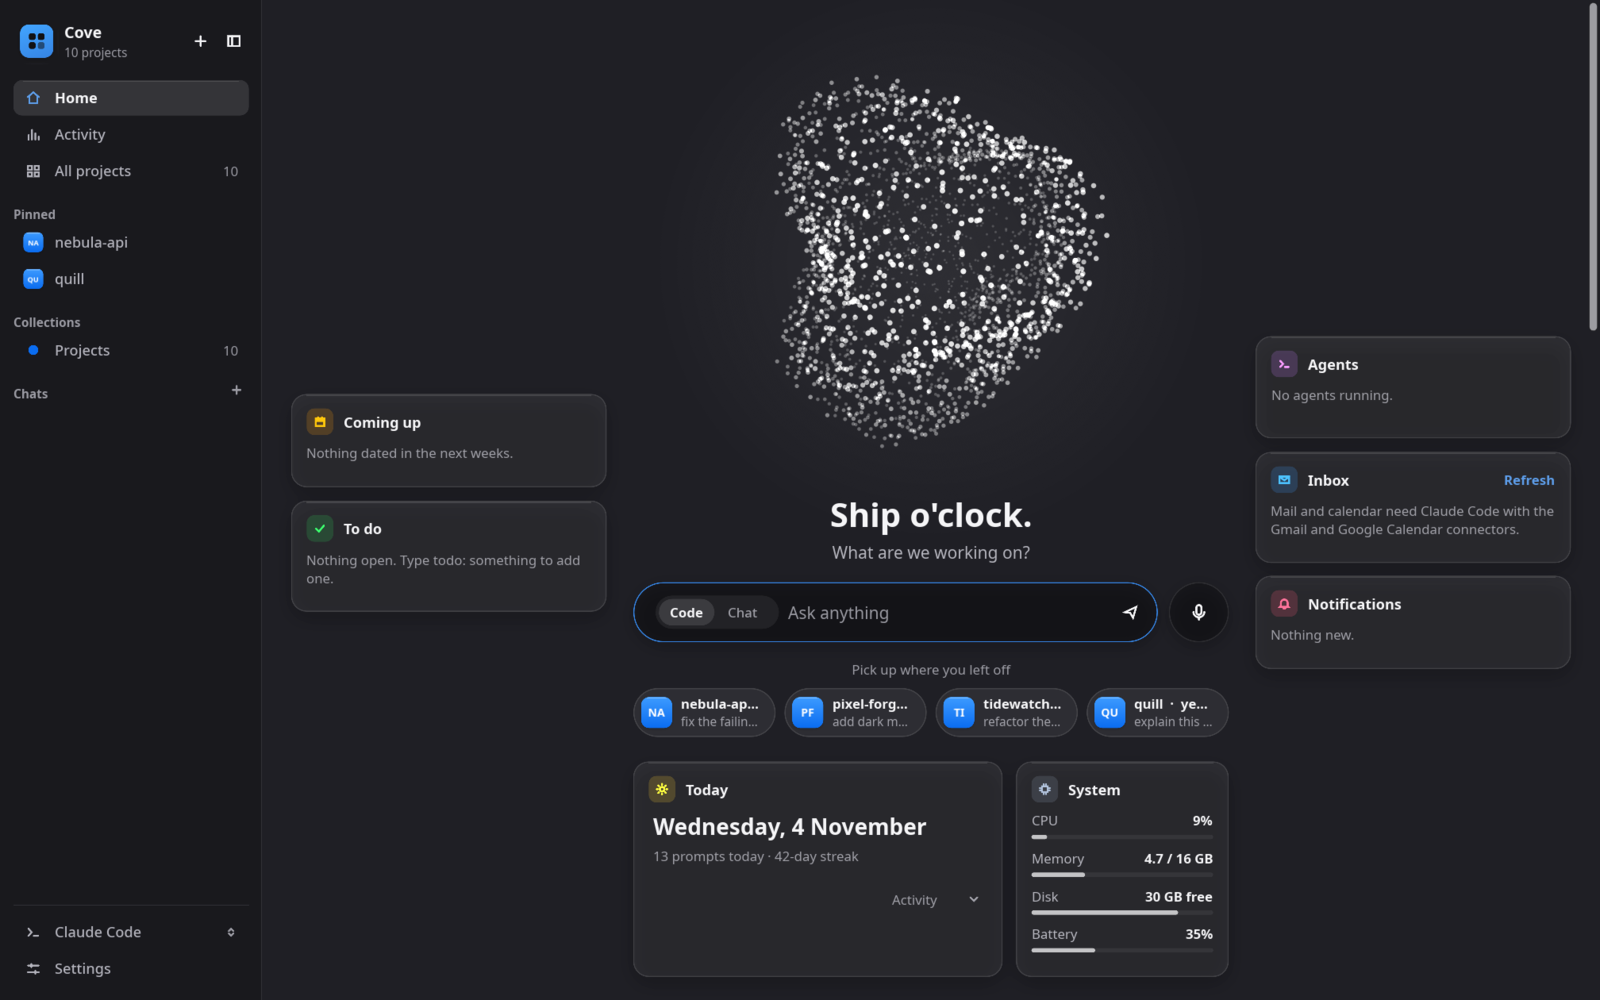
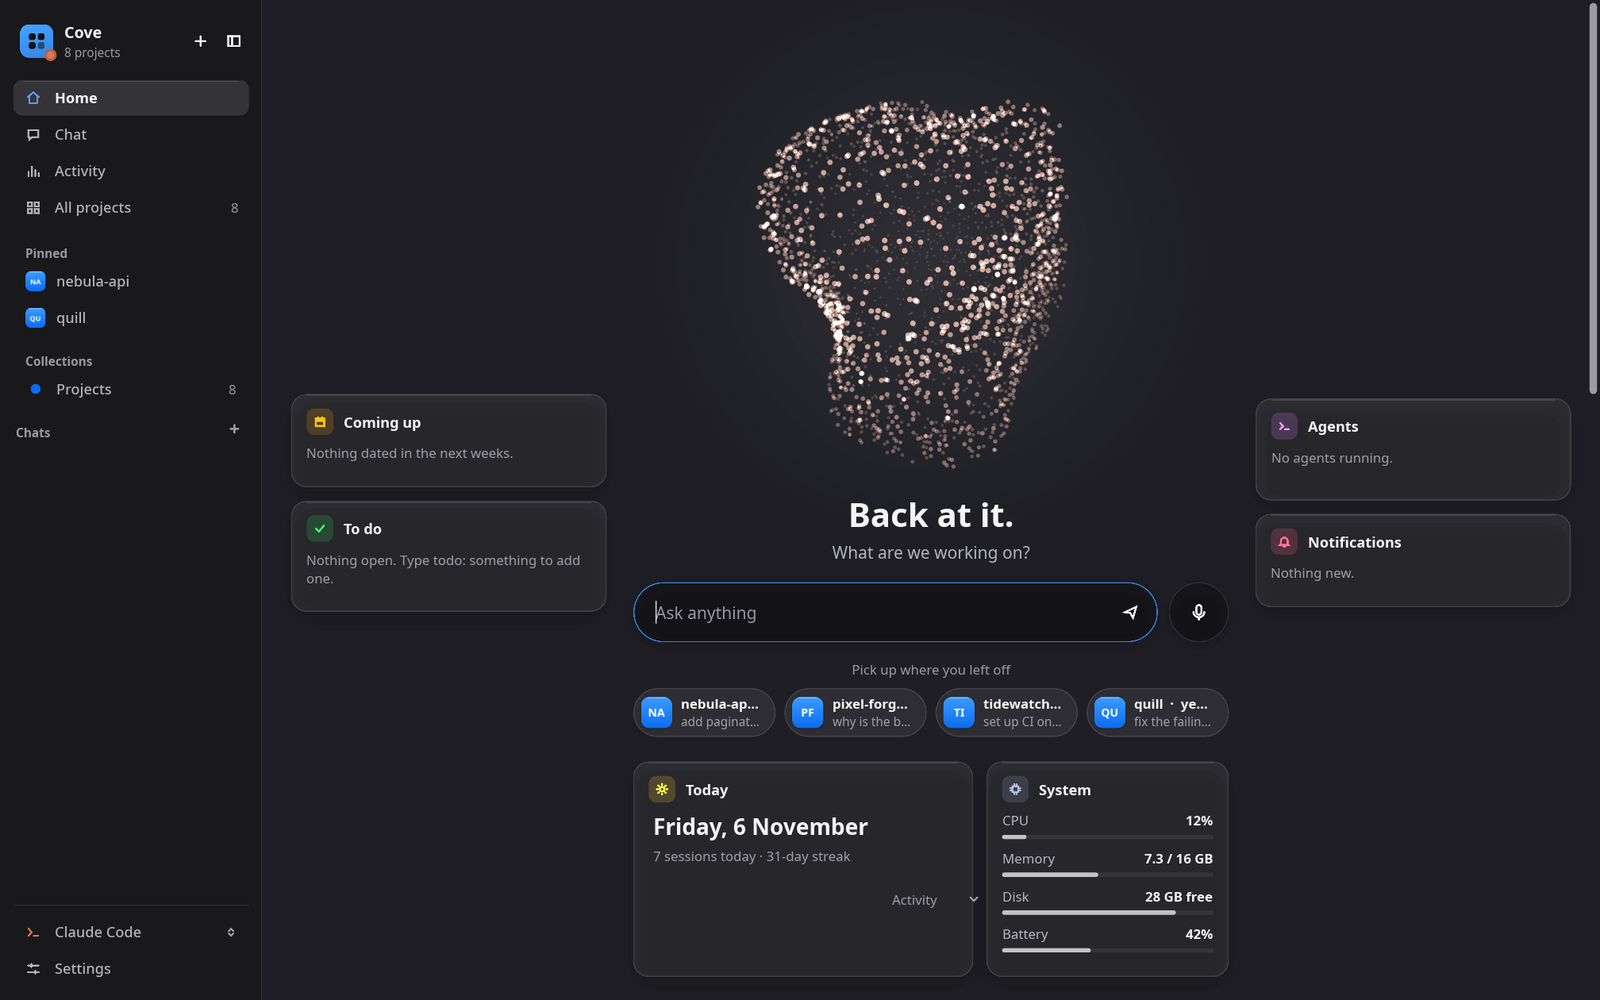
README: Chat page, chat agent, zoom, shortcuts, voice built in (models only), Windows talk mode, desktop apps FAQ; new screenshot

diff --git a/README.md b/README.md
@@ -162,7 +162,7 @@ Cove needs only one thing besides itself: a coding agent. Everything else is an 
 | **Code editor** | The *VS Code* button opens projects in your editor | ✓ | ✓ | [Editor](#code-editor) |
 | **Handy** | Dictation: speak, and the words appear in Cove's box | ✓ | ✓ | [Voice input](#voice-input-handy) |
 | **A voice** | Cove reads its chat replies aloud | ✓ (Kokoro, Piper or espeak-ng) | ✓ built in | [Spoken replies](#spoken-replies) |
-| **Talk mode models** | A hands-free conversation: words show as you speak, and every pause sends | ✓ | — | [Talk mode](#talk-mode-live-speech-to-text) |
+| **Talk mode models** | A hands-free conversation: words show as you speak, and every pause sends | ✓ | ✓ (new) | [Talk mode](#talk-mode-live-speech-to-text) |
 | **Keyboard shortcut** | One key that brings Cove up and starts listening | ✓ | ✓ set up by the installer | [Shortcuts](#keyboard-shortcuts) |
 | **More agents** | Gemini CLI, Copilot CLI, Cursor CLI, Qwen Code, Aider, Goose | ✓ | ✓ | [Agents](#coding-agents) |
 | **Ollama** | Run your agent on a local model, offline and free | ✓ | ✓ | [Local models](#local-models-ollama) |
@@ -235,26 +235,25 @@ To send dictated text without pressing Enter, switch on **Settings → Voice and
 
 ### Spoken replies
 
-In **Chat** mode, Cove can read its replies aloud. Turn this on with **Settings → Voice and chat → Talk back**, and choose a voice there.
+Cove can read its chat replies aloud. Turn this on with **Settings → Voice and chat → Talk back**, and choose a voice there. Every reply also has a **Read aloud** button above it.
 
 - **Windows:** this works out of the box with the built-in Windows voice.
 - **Linux:** Cove uses the best voice it finds, in this order.
 
 | Voice | Sound | How to install (Linux) |
 | --- | --- | --- |
-| **Kokoro** | Natural, 28 voices | Run the commands below. About 360 MB to download. |
+| **Kokoro** | Natural, 28 voices | Run the command below. About 330 MB to download. |
 | **Piper** | Good | Install `piper-tts` (`pipx install piper-tts`, or `piper-tts-bin` from the AUR). Put one voice (`.onnx` plus `.onnx.json`) from [piper-voices](https://huggingface.co/rhasspy/piper-voices/tree/main/en) into `~/.local/share/piper/`. |
 | **espeak-ng** | Robotic, tiny | `sudo apt install espeak-ng`, `sudo dnf install espeak-ng` or `sudo pacman -S espeak-ng` |
 
-To install Kokoro, run:
+To install Kokoro, download the voice model. Cove has the engine built in:
 
 ```sh
 mkdir -p ~/.local/share/kokoro && cd ~/.local/share/kokoro
-curl -fL https://github.com/k2-fsa/sherpa-onnx/releases/download/v2.0.1/sherpa-onnx-v2.0.1-linux-x64-shared.tar.bz2 | tar xj
 curl -fL https://github.com/k2-fsa/sherpa-onnx/releases/download/tts-models/kokoro-multi-lang-v1_0.tar.bz2 | tar xj
 ```
 
-Then go to **Settings → Voice and chat** and click **Test voice**.
+Then go to **Settings → Voice and chat** and click **Test voice**. Cove loads the voice only when it is about to speak, and lets it go after five quiet minutes. While it gets ready, three dots move on the microphone button.
 
 Playback uses `pw-play`, `paplay` or `aplay`, and every desktop has at least one of them.
 
@@ -265,20 +264,31 @@ Talk mode is a spoken conversation, and it needs no extra app:
 - Each pause sends what you said.
 - Cove reads the reply aloud, then keeps listening until you stop it.
 
-It runs on your computer with [sherpa-onnx](https://github.com/k2-fsa/sherpa-onnx), the Parakeet speech model and the Silero voice detector. Nothing is recorded or uploaded. **Linux only for now.**
+It runs inside Cove with [sherpa-onnx](https://github.com/k2-fsa/sherpa-onnx), the Parakeet speech model and the Silero voice detector. Nothing is recorded or uploaded, and the microphone is open only while you talk.
 
-1. Install **Kokoro** first (see [Spoken replies](#spoken-replies)), because talk mode uses the same sherpa-onnx tools.
-2. Download the listening models, about 465 MB:
+1. Download the listening models, about 465 MB:
 
-```sh
-mkdir -p ~/.local/share/asr && cd ~/.local/share/asr
-curl -fL https://github.com/k2-fsa/sherpa-onnx/releases/download/asr-models/sherpa-onnx-nemo-parakeet-tdt-0.6b-v3-int8.tar.bz2 | tar xj
-curl -fLO https://github.com/k2-fsa/sherpa-onnx/releases/download/asr-models/silero_vad.onnx
-```
+   **Linux**
 
-3. Restart Cove. The microphone now starts talk mode instead of Handy. It takes a few seconds to get ready each time.
+   ```sh
+   mkdir -p ~/.local/share/asr && cd ~/.local/share/asr
+   curl -fL https://github.com/k2-fsa/sherpa-onnx/releases/download/asr-models/sherpa-onnx-nemo-parakeet-tdt-0.6b-v3-int8.tar.bz2 | tar xj
+   curl -fLO https://github.com/k2-fsa/sherpa-onnx/releases/download/asr-models/silero_vad.onnx
+   ```
 
-To check that Cove hears your microphone, run `cove --mic-test` in a terminal and speak. The numbers rise while you talk.
+   **Windows** (PowerShell, Windows 10 and 11 include `tar`)
+
+   ```powershell
+   $d = "$env:APPDATA\asr"; New-Item -ItemType Directory -Force $d | Out-Null; cd $d
+   curl.exe -fL -o m.tar.bz2 https://github.com/k2-fsa/sherpa-onnx/releases/download/asr-models/sherpa-onnx-nemo-parakeet-tdt-0.6b-v3-int8.tar.bz2; tar xf m.tar.bz2; del m.tar.bz2
+   curl.exe -fLO https://github.com/k2-fsa/sherpa-onnx/releases/download/asr-models/silero_vad.onnx
+   ```
+
+2. Restart Cove. The microphone now starts talk mode instead of Handy.
+
+Cove loads the speech model in the background when it starts, so it is ready when you are. If you don't talk for a few minutes, Cove lets it go to free about 1 GB of memory, and loads it again the next time you press the microphone. While it loads, the box glows softly and three dots move on the microphone button. When it turns red, speak.
+
+To check talk mode from a terminal, run `cove --talk-test` and say something: it prints what it hears for 20 seconds. `cove --mic-test` shows only the microphone level.
 
 ### Keyboard shortcuts
 
@@ -287,9 +297,12 @@ Inside Cove:
 | Key | Action |
 | --- | --- |
 | <kbd>Ctrl</kbd>+<kbd>K</kbd> or <kbd>/</kbd> | Search or ask |
+| <kbd>Ctrl</kbd>+<kbd>1</kbd> … <kbd>4</kbd> | Home, Chat, Activity, Projects |
+| <kbd>Ctrl</kbd>+<kbd>,</kbd> | Settings |
+| <kbd>Ctrl</kbd>+<kbd>=</kbd> / <kbd>-</kbd> / <kbd>0</kbd>, or <kbd>Ctrl</kbd>+wheel | Zoom in, out, back to 100 % |
 | <kbd>Enter</kbd> | Send, or open the selected project |
 | <kbd>↑</kbd> / <kbd>↓</kbd> | Pick a suggestion |
-| <kbd>Ctrl</kbd>+<kbd>B</kbd> | Show or hide the sidebar |
+| <kbd>Ctrl</kbd>+<kbd>B</kbd> | Show or hide the sidebar (drag its edge to resize it) |
 | <kbd>Esc</kbd> | Clear, close, go back |
 
 **A global shortcut (Linux).** Bind any key to `cove --listen`:
@@ -354,11 +367,12 @@ On the **niri**, **Hyprland** and **sway** compositors, clicking a running agent
 - **Your agent, your data.** Switch between Claude Code, Codex, opencode, Gemini CLI, Copilot CLI, Cursor CLI, Qwen Code, Aider and Goose at the bottom of the sidebar. Each has its own colour, and local models through Ollama work too. Session counts, recent sessions, Activity, running agents and Chat all follow the agent you pick.
 - **Live agents.** See which agents are running right now, in which project, and whether they are working or waiting for you.
 - **Ask in plain words.** Type requests such as *"continue nebula-api"*, *"run quill"* or *"new project called atlas"*. Cove opens the right place, with your request already typed.
-- **Chat.** Talk to Claude Code without picking a project first. When an idea grows, turn the chat into a project with one click.
+- **Code and Chat.** The box on Home is for your projects: open or continue one, ask how one is going, or start a new one. **Chat** (<kbd>Ctrl</kbd>+<kbd>2</kbd>) is for longer conversations that aren't about a project, like a chatbot. Replies appear as they are written, with the agent, model and time above each one.
+- **Chat with any agent.** Pick the chat agent in Settings or with the button above the chat. When an agent hits its limit, hand the conversation to another one and carry on. **Open in terminal** continues a chat as a full agent session, and **Make it a project** turns it into a project.
 - **Activity.** A heatmap, a punch card and charts of your prompts and tokens over time, plus your busiest projects.
 - **Quick jumps.** Open any project in your editor, terminal, file manager or on GitHub, or copy its path.
 - **Native and light.** One binary written in Rust, with no runtime to install. It opens in under a second and stays quiet in the background.
-- **Fits your desktop.** It follows the system light or dark theme and accent colour, and works from the keyboard: <kbd>Ctrl</kbd>+<kbd>K</kbd> to search, <kbd>Ctrl</kbd>+<kbd>B</kbd> for the sidebar, <kbd>Esc</kbd> to go back.
+- **Fits your desktop.** It follows the system light or dark theme and accent colour, zooms like a browser, and works from the keyboard (see [Keyboard shortcuts](#keyboard-shortcuts)).
 
 ## Updates
 
@@ -433,6 +447,15 @@ Cove lists the folders directly inside each project folder. Check **Settings →
 </details>
 
 <details>
+<summary><b>Does it work with the Claude, Codex or opencode desktop apps?</b></summary>
+
+<br>
+
+Partly. Cove reads each agent's history from where the agent keeps it: `~/.claude/projects`, `~/.codex` and opencode's `opencode.db`. Sessions stored there appear in Cove, so a desktop app that keeps its history in the same place shows up too. But Cove's buttons open the command-line agents in a terminal, not the desktop apps, so install the command-line version too (see [Coding agents](#coding-agents)).
+
+</details>
+
+<details>
 <summary><b>Does it work on macOS?</b></summary>
 
 <br>
@@ -444,7 +467,8 @@ Not yet. The code has macOS paths in place, but there is no tested build. Contri
 ## Known limits
 
 - **Jump to an agent's window** works on niri, Hyprland and sway. Elsewhere, Cove shows running agents but can't bring their window to the front.
-- **Talk mode is Linux-only** for now. On Windows, use Handy for dictation. Spoken replies use the Windows voice.
+- **Talk mode on Windows is new and untested.** Spoken replies on Windows use the built-in Windows voice, not Kokoro.
+- **Linux touchpad pinch** doesn't zoom (the window toolkit doesn't report it); use <kbd>Ctrl</kbd>+wheel or <kbd>Ctrl</kbd>+<kbd>=</kbd>.
 - **Glass** (see-through window) uses Mica on Windows. On Linux, it needs a compositor that blurs, such as KDE Plasma, Hyprland or niri.
 - **Chat extras are for Claude Code.** Renaming a chat and turning a chat into a project work with Claude Code. With opencode you can also delete chats. Chat needs Claude Code, Codex or opencode.
 - **Not yet tried on a real machine:**
